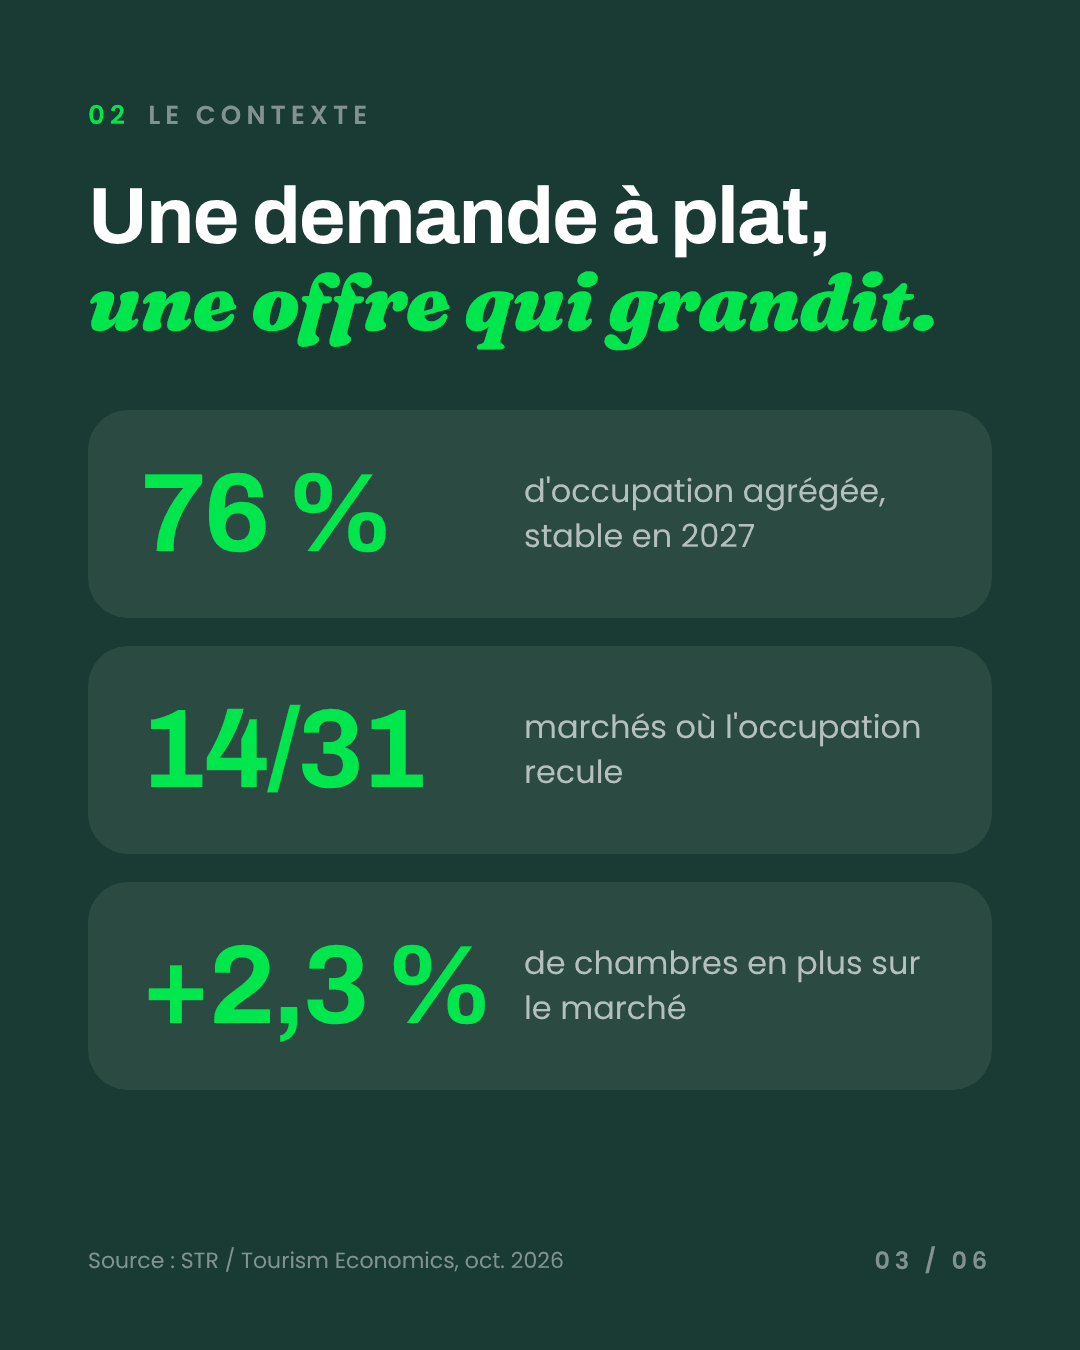
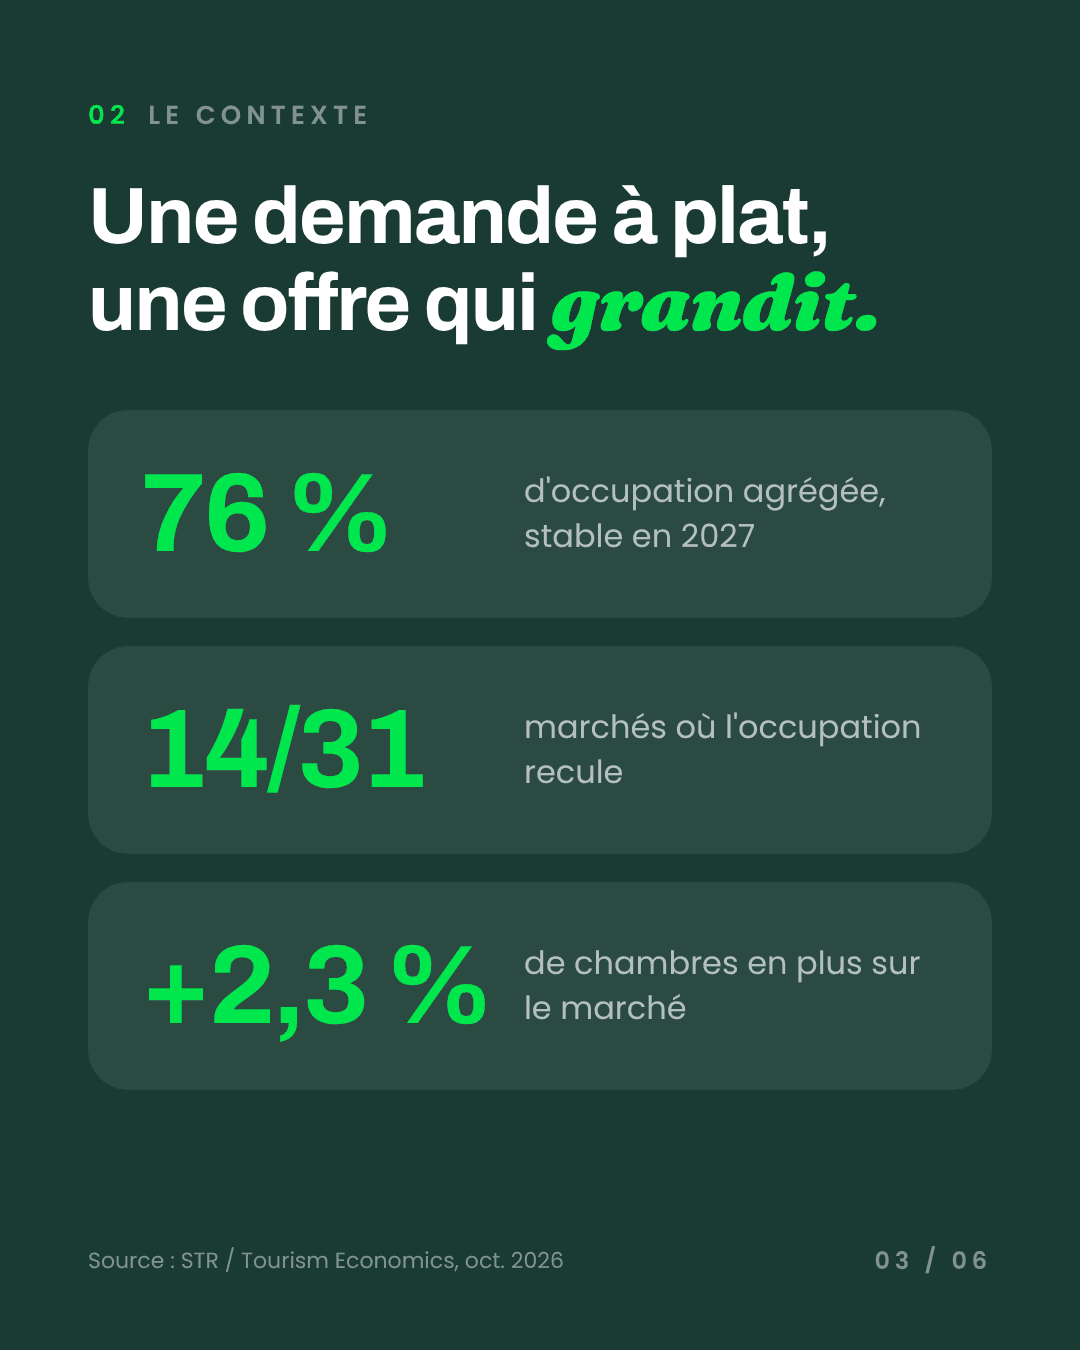
Slide 3 : accent limité à un mot-clé
Claude-Session: https://claude.ai/code/session_01LpBAs5sWS8q6J54tLa1hab

Changed region(s): [[0.0611, 0.1867, 0.8556, 0.28]]

diff --git a/kit/exemples/carrousel-marche.html b/kit/exemples/carrousel-marche.html
@@ -21,7 +21,7 @@
 
 <section class="slide dark" id="s3">
   <div class="label"><span class="n">02</span><span class="muted">Le contexte</span></div>
-  <h2 style="margin-top:40px">Une demande à plat,<br><em>une offre qui grandit.</em></h2>
+  <h2 style="margin-top:40px">Une demande à plat,<br>une offre qui <em>grandit.</em></h2>
   <div style="display:flex;flex-direction:column;gap:28px;margin-top:64px">
     <div class="card" style="display:flex;align-items:center;gap:44px"><div class="big" style="font-size:112px;min-width:340px">76 %</div><div class="cap" style="margin:0">d'occupation agrégée, stable en 2027</div></div>
     <div class="card" style="display:flex;align-items:center;gap:44px"><div class="big" style="font-size:112px;min-width:340px">14/31</div><div class="cap" style="margin:0">marchés où l'occupation recule</div></div>
